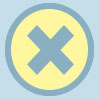
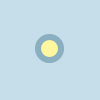
Rinat: added yes balloon flag (so cannot be clicked more than once). Changed graphics of reset buttons.

diff --git a/tablet_app/tangram_mindset_app.py b/tablet_app/tangram_mindset_app.py
@@ -439,6 +439,7 @@ class TangramMindsetApp(App):
     selection = None
     text_handler = None
     tablet_disabled = False
+    yes_clicked_flag = False
 
     def build(self):
         self.interaction = Interaction(
@@ -532,7 +533,9 @@ class TangramMindsetApp(App):
 
     def press_yes_button(self):
         # child pressed the yes button
-        self.interaction.components['child'].on_action(["press_yes_button"])
+        if not self.yes_clicked_flag:
+            self.interaction.components['child'].on_action(["press_yes_button"])
+            self.yes_clicked_flag = True
 
     def press_treasure(self, treasure, dt=0):
         # child selected treasure (1/2/3)
